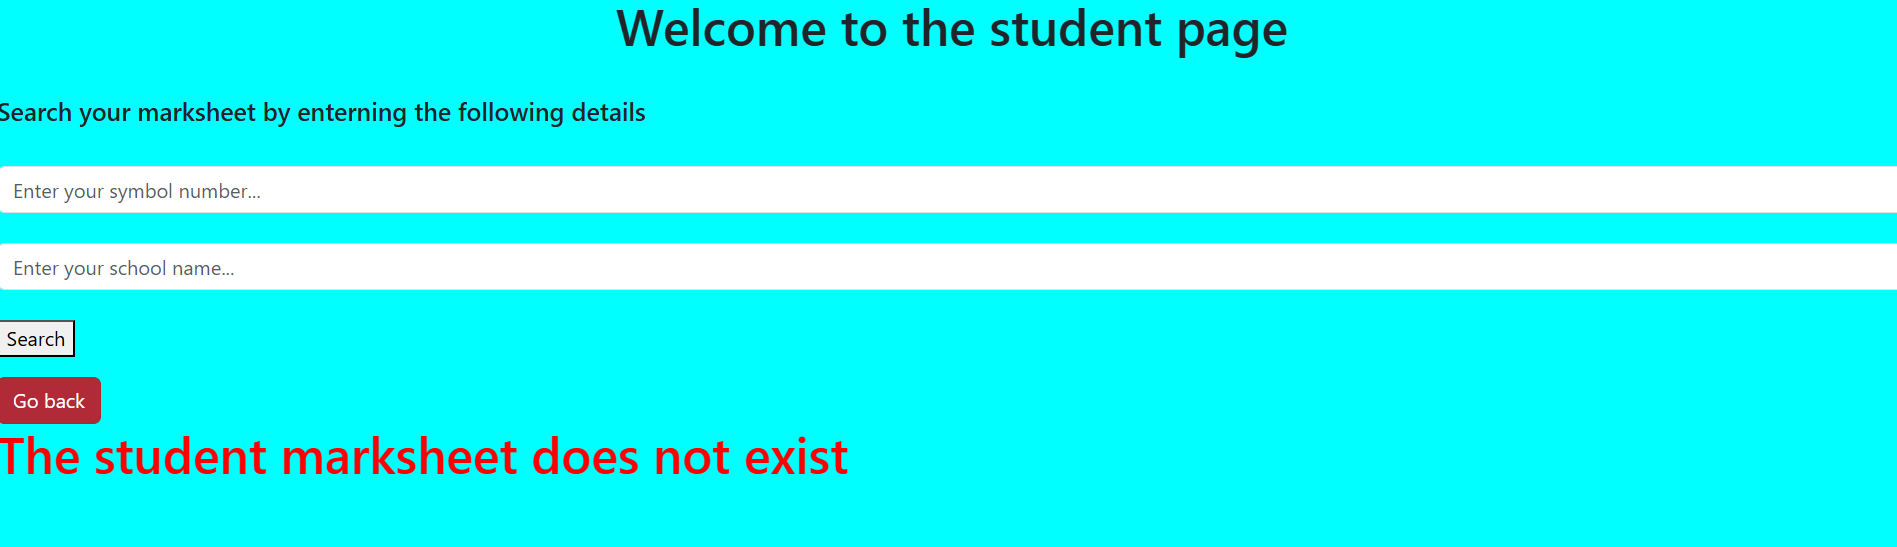
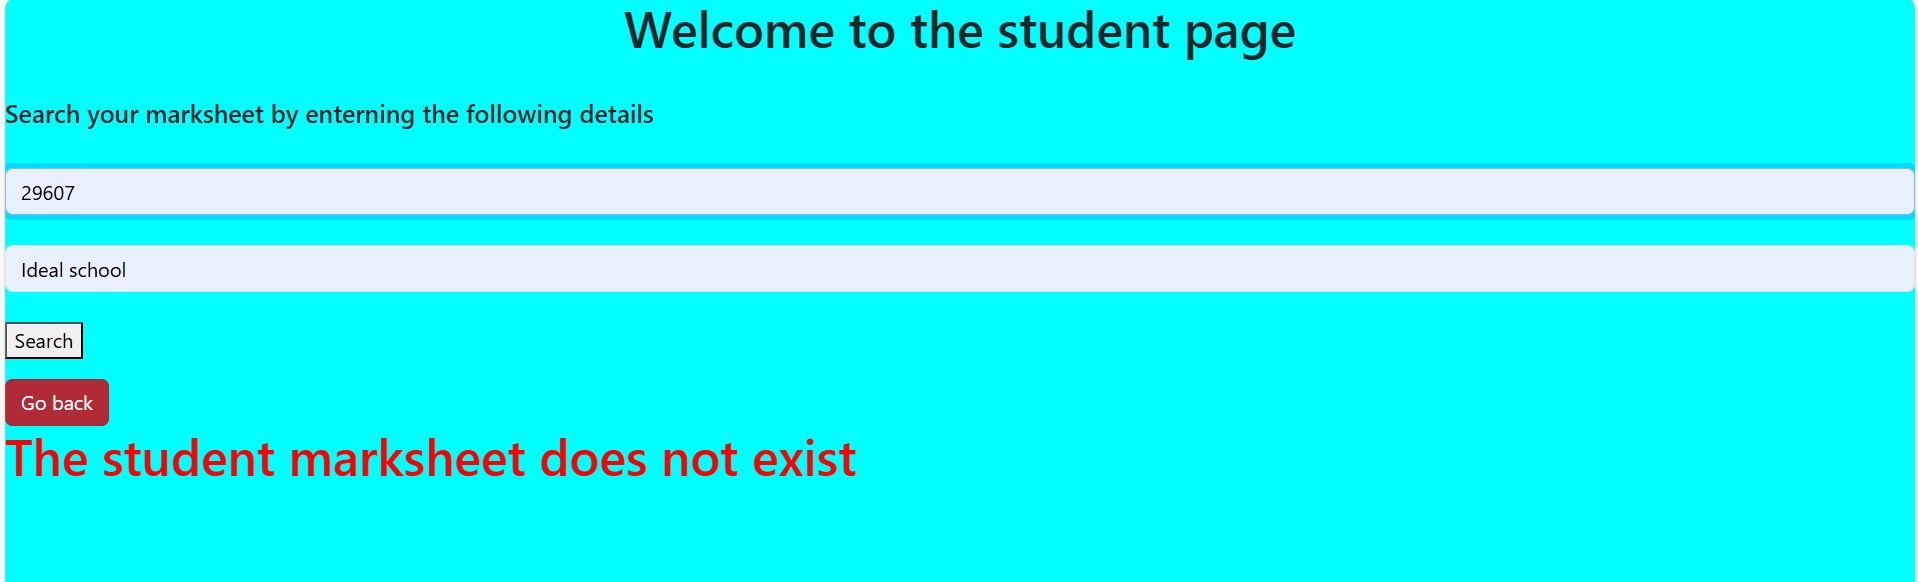
change readme

Changed region(s): [[0.0, 0.0, 1.0, 1.0], [0.311, 0.0311, 0.6842, 0.0932]]

diff --git a/README.md b/README.md
@@ -27,11 +27,10 @@ A web application built with Django to manage and display student marksheets. It
 - You donot need to enter any credentials to login as a student
 ![App Screenshot](/photos/student.png) 
 
-- From the student page you can simply search the marksheet by entering your marksheet if the student marksheet doesnot exist then the error message will be shown
+- From the student page you can simply search the marksheet by entering your Symbol Number and School Name if the detail does not match then the error will be shown as follows
 ![App Screenshot](/photos/searchfail.png) 
 
-- If the student details match then the same marksheet will be uploaded
-
+- If the student details match then the same marksheet as above will be shown
 ## Features
 
 - Handle the login properly only the superuser can login as a teacher
